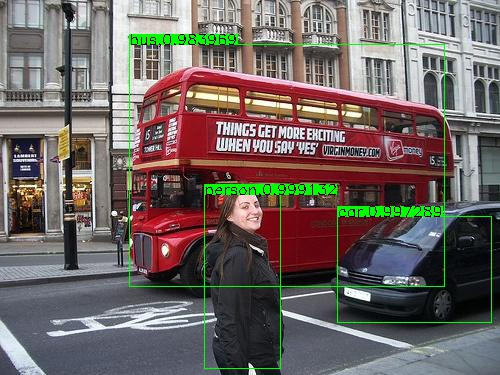
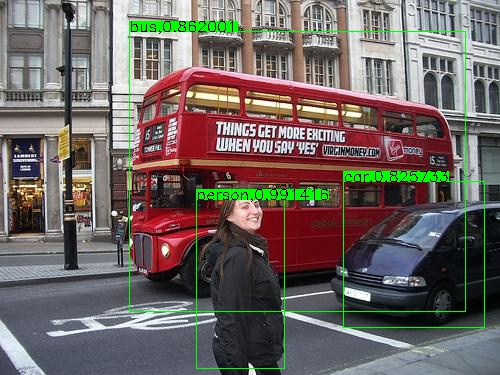
Update darkenet yolov2 demo result

Changed region(s): [[0.24, 0.0293, 0.99, 0.9973]]

diff --git a/examples/ssd/ssd_detect.cpp b/examples/ssd/ssd_detect.cpp
@@ -414,6 +414,8 @@ int main(int argc, char** argv) {
 			  }
 		  }
 		  cv::imshow("show", img);
+		  sprintf(buf, "out//%05d.jpg", k);
+		  cv::imwrite(buf, img);
 		  cv::waitKey(wait_time);
 		  data.push_back(img);
 	  }

diff --git a/README.md b/README.md
@@ -32,7 +32,18 @@ The build step was the same as [MobileNet-SSD-windows](https://github.com/eric61
 > cd $caffe_root/script
 > build_win.cmd 
 ```
+### Darknet yolov2
 
+[graph](http://ethereon.github.io/netscope/#/gist/c062fa088c0f4cc58649dc560df27875)
+
+Download [weights](https://drive.google.com/file/d/17w7oZBbTHPI5TMuD9DKQzkPhSVDaTlC9/view?usp=sharing) and save at $caffe_root/models/yolov2/
+
+```
+> cd $caffe_root/
+> examples\demo_yolo_darknet.cmd
+```
+
+![alt tag](out\00003.jpg.jpg)
 
 ### MobilenetYOLO_V2 Demo
 
